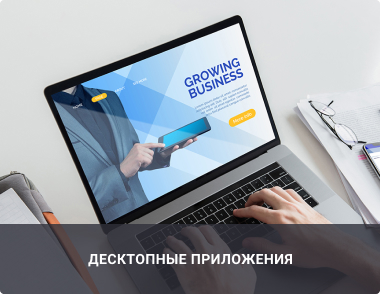
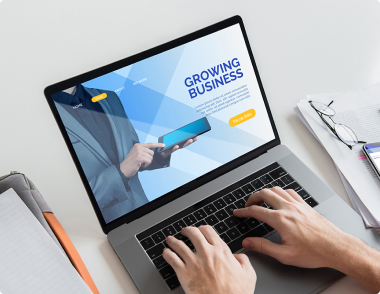
Добавил оформление

Changed region(s): [[0.0, 0.7347, 1.0, 1.0]]

diff --git a/index.html b/index.html
@@ -6,54 +6,58 @@
     <title>Document</title>
     <link rel="stylesheet" href="./css/styles.css">
   </head>
-  <body>
+  <body class="page">
     <header class="page-header">
-      <a href="/index.html" class="logo">
-        <img src="./images/webstudio.png" alt="Logo-Web-Studio" width="153" />
-        Web Studio
-      </a>
+      <nav>
+        <a href="/index.html" class="logo">
+          <img src="./images/webstudio.png" alt="Logo-Web-Studio" width="153" />
+          Web Studio
+          </a>
 
-      <ul class="site nav">
-        <li><a href="">Студия</a></li>
-        <li><a href="portfolio.html">Портфолио</a></li>
-        <li><a href="">Контакты</a></li>
-      </ul>
+        <ul class="site-nav list">
+          <li><a href="" class="link">Студия</a></li>
+            <li><a href="portfolio.html" class="link">Портфолио</a></li>
+            <li><a href="" class="link">Контакты</a></li>
+        </ul>
+      </nav>
 
-      <ul>
-        <li>
-          <a href="" target="_blank" title="Ссылка на нашу почту">
-            <img
-              src="./images/envelope_(hover).svg"
-              alt="Конверт"
+        <ul>
+          <li>
+            <a href="" target="_blank" title="Ссылка на нашу почту">
+              <img
+                src="./images/envelope_(hover).svg"
+                alt="Конверт"
             />Info@devstudio.com
-          </a>
-        </li>
-        <li>
-          <a href="tel:+380961111111">
-            <img src="./images/Vector.svg" alt="мобильный телефон" />+38 096 111
-            11 11
-          </a>
-        </li>
-      </ul>
+            </a>
+          </li>
+
+          <li>
+            <a href="tel:+380961111111">
+              <img src="./images/Vector.svg" alt="мобильный телефон" />+38 096 111
+                11 11
+            </a>
+          </li>
+        </ul>
+
     </header>
-    <div>
-      <section>
-        <img src="./images/header.jpg" alt="Картинка с людьми" width="1600" />
-        <h1>эффективные решения для вашего бизнеса</h1>
-        <a href="">Заказать услугу</a>
-      </section>
-    </div>
-    <main>
-      <section>
-        <h2>Секция</h2>
+
+      <main>
+        <!-- Герой -->
+        <section class="hero">
+          <h1 class="hero-title">эффективные решения для вашего бизнеса</h1>
+          <a href="">Заказать услугу</a>
+        </section>
+
+      <section class="section">
+        <h2 class="section-title">Секция</h2>
         <!-- скрываем с помощью CSS -->
         <ul>
           <li>
             <a href="">
               <img src="./images/antenna.png" alt="Антенна" />
             </a>
-            <h3>Внимание к деталям</h3>
-            <p>
+            <h3 class="undersection">Внимание к деталям</h3>
+            <p class="text">
               Идейные соображения, а также начало повседневной работы по
               формированию позиции.
             </p>
@@ -62,8 +66,8 @@
             <a href="">
               <img src="./images/clock.png" alt="Часы" />
             </a>
-            <h3>Пунктуальность</h3>
-            <p>
+            <h3 class="undersection">Пунктуальность</h3>
+            <p class="text">
               Задача организации, в особенности же рамки и место обучения кадров
               влечет за собой.
             </p>
@@ -72,8 +76,8 @@
             <a href="">
               <img src="./images/pc.png" alt="ПК" />
             </a>
-            <h3>Планирование</h3>
-            <p>
+            <h3 class="undersection">Планирование</h3>
+            <p class="text">
               Равным образом консультация с широким активом в значительной
               степени обуславливает.
             </p>
@@ -82,39 +86,43 @@
             <a href="">
               <img src="./images/astronaut.png" alt="Космонавт" />
             </a>
-            <h3>Современные технологии</h3>
-            <p>
+            <h3 class="undersection">Современные технологии</h3>
+            <p class="text">
               Значимость этих проблем настолько очевидна, что реализация
               плановых заданий.
             </p>
           </li>
         </ul>
       </section>
-      <section>
-        <h2>Чем мы занимаемся</h2>
 
-        <ul>
+      <section class="work">
+
+        <h2 class="work-title">Чем мы занимаемся</h2>
+
+        <ul class="work-list">
           <li>
             <img src="./images/pc2.jpg" alt="Ноутбук" width="380" />
-            <a href="">Десктопные приложения</a>
+            <a href="" class="work-ref">Десктопные приложения</a>
           </li>
           <li>
             <img src="./images/smartphone.jpg" alt="Смартфон" width="380" />
-            <a href="">Мобильные приложения</a>
+            <a href="" class="work-ref">Мобильные приложения</a>
           </li>
           <li>
-            <img src="./images/box.png" alt="Монитор" width="380" />
-            <a href="">Дизайнерские решения</a>
+            <img src="./images/box.jpg" alt="Монитор" width="380" />
+            <a href="" class="work-ref">Дизайнерские решения</a>
           </li>
         </ul>
+
       </section>
-      <section>
-        <h2>Наша команда</h2>
-        <ul>
+
+      <section class="team" >
+        <h2 class="team-title">Наша команда</h2>
+        <ul class="team-list">
           <li>
             <img src="./images/john_smith.jpg" alt="John Smith" width="278" />
-            <h3>John Smith</h3>
-            <p>Product Designer</p>
+            <h3 class="team-member">John Smith</h3>
+            <p class="team-text">Product Designer</p>
             <a href=""
               ><img src="./images/instagram.png" width="20" alt="Instagram"
             /></a>
@@ -134,8 +142,8 @@
               alt="Marta Stewart"
               width="278"
             />
-            <h3>Marta Stewart</h3>
-            <p>Frontend Developer</p>
+            <h3 class="team-member">Marta Stewart</h3>
+            <p class="team-text">Frontend Developer</p>
             <a href=""
               ><img src="./images/instagram.png" width="20" alt="Instagram"
             /></a>
@@ -155,8 +163,8 @@
               alt="Robert Jakis"
               width="278"
             />
-            <h3>Robert Jakis</h3>
-            <p>Marketing</p>
+            <h3 class="team-member">Robert Jakis</h3>
+            <p class="team-text">Marketing</p>
             <a href=""
               ><img src="./images/instagram.png" width="20" alt="Instagram"
             /></a>
@@ -172,8 +180,8 @@
           </li>
           <li>
             <img src="./images/martin_doe.jpg" alt="Martin Doe" width="278" />
-            <h3>Martin Doe</h3>
-            <p>UI Designer</p>
+            <h3 class="team-member">Martin Doe</h3>
+            <p class="team-text">UI Designer</p>
             <a href=""
               ><img src="./images/instagram.png" width="20" alt="Instagram"
             /></a>

diff --git a/css/styles.css b/css/styles.css
@@ -1,3 +1,80 @@
-body {
-background-color:;
+/* цвет основного текста #212121 */
+/* акцент  #2196F3; */
+/* цвет текста 2 и хедера #FFFFFF */
+/* цвет текста 3 #757575 */
+/* цвет фона #E5E5E5 */
+/* цвет фона вторичный #F5F4FA */
+
+:root {
+  --primary-text-color: #757575;
+  --title-text-color:#212121;
+  --accent-color:#2196F3;
+  --header-and-text-color:#FFFFFF;
 }
+
+
+body {
+  background-color:#E5E5E5;
+  color: var(--title-text-color);
+}
+
+/* Применится ко всем ссылкам на странице */
+a {
+    text-decoration: none;
+  }
+
+/* Применится ко всем сспискам на странице */
+ul {
+  list-style: none;
+}
+
+/* Header */
+
+.page-header {
+  background-color: var(--header-and-text-color);
+}
+
+.logo {
+  color: var(--title-text-color);
+}
+.logo:hover {
+  color: var(--accent-color);
+}
+/* Site nav */
+
+.site-nav .link {
+  color:var(--title-text-color);
+}
+.site-nav .link:hover,
+.site-nav .link:focus {
+  color: var(--accent-color);
+}
+
+/* Hero */
+.hero-title {
+  color: var(--header-and-text-color);
+}
+/* Section */
+.section-title  {
+  color: ;
+}
+.text {
+  color: var(--primary-text-color);
+}
+
+/* Чем мы занимаемся */
+.work-list {
+  color: var(--header-and-text-color);
+}
+.work .work-ref {
+  color: var(--header-and-text-color);
+}
+
+
+.team {
+  background: #F5F4FA;
+}
+.team .team-text {
+  color: var(--primary-text-color);
+}
+

diff --git a/portfolio.html b/portfolio.html
@@ -4,6 +4,7 @@
     <meta charset="UTF-8" />
     <meta name="viewport" content="width=device-width, initial-scale=1.0" />
     <title>Document</title>
+    <link rel="stylesheet" href="./css/styles.css">
   </head>
   <body>
     <header>
@@ -33,6 +34,7 @@
             </li>
           </ul>
         </header>
+     <main>
       <div>
         <h1>Скрытый заголовок</h1>
         <ul>
@@ -109,6 +111,7 @@
           </li>
         </ul>
       </div>
+    </main>
       <footer>
         <div>
           <a href="/index.html">
